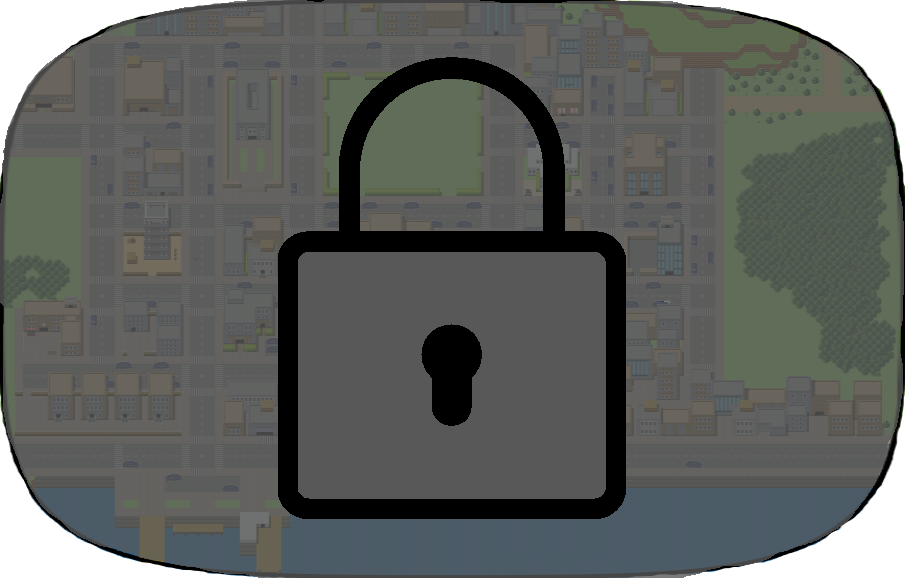
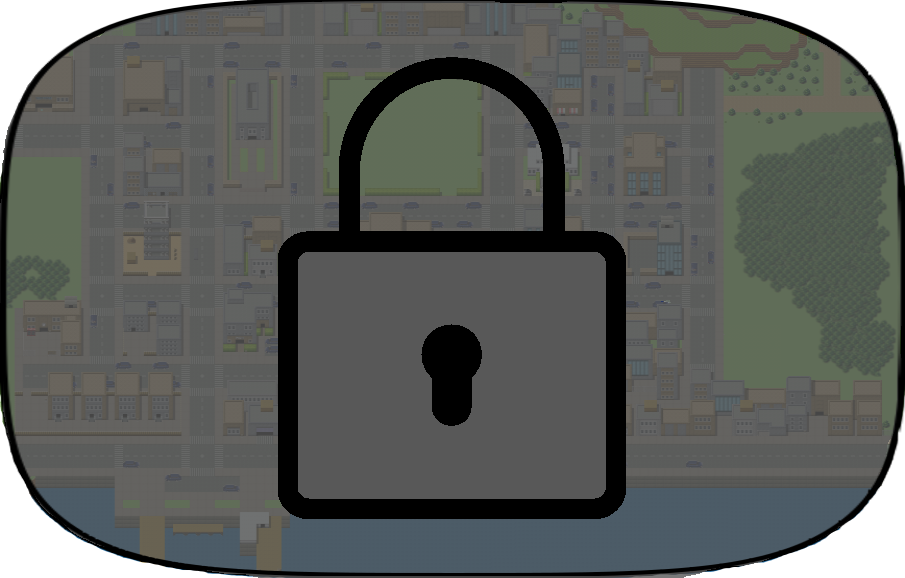
levelsunlocked working

diff --git a/build/app.js b/build/app.js
@@ -138,7 +138,7 @@ class GameController {
         this.energy = 1;
         this.money = 1;
         this.currentScreen = 'StartScreen';
-        this._levelsUnlocked = 1;
+        this._levelsUnlocked = 2;
         this._startscreen = new Startscreen(this._canvasElement);
         this._helpscreen = new Helpscreen(this._canvasElement);
         this._canvas = canvas;
@@ -569,21 +569,22 @@ class GameController {
         }
         ;
         if (this.co2 == 0 && this.currentScreen == `Level1`) {
-            this._levelsUnlocked = 1;
+            this._levelsUnlocked = 2;
+            this._startscreen._levelsUnlocked = 2;
             this.currentScreen = `StartScreen`;
             document.getElementById("wintext").innerHTML = `<span style='font-family:helvetica;float:left;position:relative;margin-left:34%;margin-top:-8%;color:black;font-size:96px'>Gewonnen!</span>`;
             this.co2 = 1;
         }
         ;
         if (this.co2 == 0 && this.currentScreen == `Level2`) {
-            this._levelsUnlocked = 2;
+            this._levelsUnlocked = 3;
+            this._startscreen._levelsUnlocked = 3;
             this.currentScreen = `StartScreen`;
             document.getElementById("wintext").innerHTML = `<span style='font-family:helvetica;float:left;position:relative;margin-left:34%;margin-top:-8%;color:black;font-size:96px'>Gewonnen!</span>`;
             this.co2 = 1;
         }
         ;
         if (this.co2 == 0 && this.currentScreen == `Level3`) {
-            this._levelsUnlocked = 3;
             this.currentScreen = `StartScreen`;
             document.getElementById("wintext").innerHTML = `<span style='font-family:helvetica;float:left;position:relative;margin-left:34%;margin-top:-8%;color:black;font-size:96px'>Gewonnen!</span>`;
             this.co2 = 1;
@@ -762,15 +763,27 @@ class LevelHelper {
 ;
 class Startscreen {
     constructor(canvas) {
-        this.levelsUnlocked = 1;
+        this._levelsUnlocked = 2;
         this.draw = () => {
             this._canvas.writeImageToCanvas(this._backgroundstart, 0, 0, this._canvas.getWidth(), this._canvas.getHeight());
             this._canvas.writeTextToCanvas("Level 1", this._canvas.getWidth() / 6, this._canvas.getHeight() / 3.6, 40);
             this._canvas.writeImageToCanvas(this._level1background, this._canvas.getWidth() / 40, this._canvas.getHeight() / 3.5, this._level1background.width / 2, this._level1background.height / 2);
             this._canvas.writeTextToCanvas("Level 2", this._canvas.getWidth() / 2, this._canvas.getHeight() / 3.6, 40);
-            this._canvas.writeImageToCanvas(this._level2background, this._canvas.getWidth() / 2.9, this._canvas.getHeight() / 3.5, this._level2background.width / 2, this._level2background.height / 2);
+            if (this._levelsUnlocked > 1) {
+                this._canvas.writeImageToCanvas(this._level2background, this._canvas.getWidth() / 2.9, this._canvas.getHeight() / 3.5, this._level2background.width / 2, this._level2background.height / 2);
+            }
+            else {
+                this._canvas.writeImageToCanvas(this._level2locked, this._canvas.getWidth() / 2.9, this._canvas.getHeight() / 3.5, this._level2background.width / 2, this._level2background.height / 2);
+            }
+            ;
             this._canvas.writeTextToCanvas("Level 3", this._canvas.getWidth() / 1.23, this._canvas.getHeight() / 3.6, 40);
-            this._canvas.writeImageToCanvas(this._level3background, this._canvas.getWidth() / 1.5, this._canvas.getHeight() / 3.5, this._level3background.width / 2, this._level3background.height / 2);
+            if (this._levelsUnlocked > 2) {
+                this._canvas.writeImageToCanvas(this._level3background, this._canvas.getWidth() / 1.5, this._canvas.getHeight() / 3.5, this._level3background.width / 2, this._level3background.height / 2);
+            }
+            else {
+                this._canvas.writeImageToCanvas(this._level3locked, this._canvas.getWidth() / 1.5, this._canvas.getHeight() / 3.5, this._level3background.width / 2, this._level3background.height / 2);
+            }
+            ;
             this._canvas.writeTextToCanvas("Help", this._canvas.getWidth() / 1.03, this._canvas.getHeight() / 7);
             this._canvas.writeImageToCanvas(this._canvas._helpButton, this._canvas.getWidth() / 1.05, this._canvas.getHeight() / 50, this._canvas._helpButton.width / 5, this._canvas._helpButton.height / 5);
         };
@@ -783,11 +796,16 @@ class Startscreen {
         this._level2background.src = "./assets/images/level2bubble.png";
         this._level3background = new Image();
         this._level3background.src = "./assets/images/level3bubble.png";
+        this._level2locked = new Image();
+        this._level2locked.src = "./assets/images/level2locked.png";
+        this._level3locked = new Image();
+        this._level3locked.src = "./assets/images/level3locked.png";
         this._levelIntro1 = new Image();
         this._levelIntro1.src = "./assets/images/level1_uitleg.png";
         this._levelIntro2 = new Image();
         this._levelIntro2.src = "./assets/images/level2_uitleg.png";
     }
+    ;
 }
 ;
 //# sourceMappingURL=app.js.map

diff --git a/src/Startscreen.ts b/src/Startscreen.ts
@@ -4,12 +4,14 @@ class Startscreen {
     private _game: Game;
     private _canvas: Canvas;
     private _levelHelper: LevelHelper;
-    private levelsUnlocked: number = 1;
+    public _levelsUnlocked: number = 2;
     private userName: string;
     public _backgroundstart: HTMLImageElement;
     public _level1background: HTMLImageElement;
     public _level2background: HTMLImageElement;
     public _level3background: HTMLImageElement;
+    public _level2locked: HTMLImageElement;
+    public _level3locked: HTMLImageElement;
     public xPosLevel1Background: number;
     public yPosLevel1Background: number;
     public xPosLevel2Background: number;
@@ -29,12 +31,16 @@ class Startscreen {
         this._level2background.src = "./assets/images/level2bubble.png";
         this._level3background = new Image();
         this._level3background.src = "./assets/images/level3bubble.png";
+        this._level2locked = new Image();
+        this._level2locked.src = "./assets/images/level2locked.png";
+        this._level3locked = new Image();
+        this._level3locked.src = "./assets/images/level3locked.png";
         this._levelIntro1 = new Image();
         this._levelIntro1.src = "./assets/images/level1_uitleg.png";
         this._levelIntro2 = new Image();
         this._levelIntro2.src = "./assets/images/level2_uitleg.png";
         //console.log(canvas);
-    }
+    };
 
     public draw = () => {
         // this._canvas.writeImageToCanvas(this._level1background, 0, 0, this._canvas.getWidth(), this._canvas.getHeight());
@@ -42,16 +48,24 @@ class Startscreen {
         this._canvas.writeImageToCanvas(this._backgroundstart, 0, 0, this._canvas.getWidth(), this._canvas.getHeight());
 
         //level1
-        this._canvas.writeTextToCanvas("Level 1", this._canvas.getWidth() / 6, this._canvas.getHeight() / 3.6, 40)
+        this._canvas.writeTextToCanvas("Level 1", this._canvas.getWidth() / 6, this._canvas.getHeight() / 3.6, 40);
         this._canvas.writeImageToCanvas(this._level1background, this._canvas.getWidth() / 40, this._canvas.getHeight() / 3.5, this._level1background.width / 2, this._level1background.height / 2);
 
         //level2
-        this._canvas.writeTextToCanvas("Level 2", this._canvas.getWidth() / 2, this._canvas.getHeight() / 3.6, 40)
-        this._canvas.writeImageToCanvas(this._level2background, this._canvas.getWidth() / 2.9, this._canvas.getHeight() / 3.5, this._level2background.width / 2, this._level2background.height / 2);
+        this._canvas.writeTextToCanvas("Level 2", this._canvas.getWidth() / 2, this._canvas.getHeight() / 3.6, 40);
+        if (this._levelsUnlocked > 1){
+            this._canvas.writeImageToCanvas(this._level2background, this._canvas.getWidth() / 2.9, this._canvas.getHeight() / 3.5, this._level2background.width / 2, this._level2background.height / 2);
+        } else {
+            this._canvas.writeImageToCanvas(this._level2locked, this._canvas.getWidth() / 2.9, this._canvas.getHeight() / 3.5, this._level2background.width / 2, this._level2background.height / 2);
+        };
 
         //level3
-        this._canvas.writeTextToCanvas("Level 3", this._canvas.getWidth() / 1.23, this._canvas.getHeight() / 3.6, 40)
-        this._canvas.writeImageToCanvas(this._level3background, this._canvas.getWidth() / 1.5, this._canvas.getHeight() / 3.5, this._level3background.width / 2, this._level3background.height / 2);
+        this._canvas.writeTextToCanvas("Level 3", this._canvas.getWidth() / 1.23, this._canvas.getHeight() / 3.6, 40);
+        if(this._levelsUnlocked > 2){
+            this._canvas.writeImageToCanvas(this._level3background, this._canvas.getWidth() / 1.5, this._canvas.getHeight() / 3.5, this._level3background.width / 2, this._level3background.height / 2);
+        } else {
+            this._canvas.writeImageToCanvas(this._level3locked, this._canvas.getWidth() / 1.5, this._canvas.getHeight() / 3.5, this._level3background.width / 2, this._level3background.height / 2);
+        };
 
         //helpbutton
         this._canvas.writeTextToCanvas("Help", this._canvas.getWidth() / 1.03, this._canvas.getHeight() / 7)

diff --git a/src/GameController.ts b/src/GameController.ts
@@ -15,7 +15,7 @@ class GameController {
     public _stuwdam: HTMLImageElement;
     public _windmolens: HTMLImageElement;
     public _zonnepaneel: HTMLImageElement;
-    public _levelsUnlocked: number = 1;
+    public _levelsUnlocked: number = 2;
 
     public constructor(canvas: Canvas) {
         this._startscreen = new Startscreen(this._canvasElement);
@@ -493,7 +493,8 @@ class GameController {
 
         //winning level 1
         if (this.co2 == 0 && this.currentScreen == `Level1`) {
-            this._levelsUnlocked = 1;
+            this._levelsUnlocked = 2;
+            this._startscreen._levelsUnlocked = 2;
             this.currentScreen = `StartScreen`;
             document.getElementById("wintext").innerHTML = `<span style='font-family:helvetica;float:left;position:relative;margin-left:34%;margin-top:-8%;color:black;font-size:96px'>Gewonnen!</span>`;
             this.co2 = 1;
@@ -501,7 +502,8 @@ class GameController {
 
         //winning level 2
         if (this.co2 == 0 && this.currentScreen == `Level2`) {
-            this._levelsUnlocked = 2;
+            this._levelsUnlocked = 3;
+            this._startscreen._levelsUnlocked = 3;
             this.currentScreen = `StartScreen`;
             document.getElementById("wintext").innerHTML = `<span style='font-family:helvetica;float:left;position:relative;margin-left:34%;margin-top:-8%;color:black;font-size:96px'>Gewonnen!</span>`;
             this.co2 = 1;
@@ -509,7 +511,6 @@ class GameController {
 
         //winning level 3
         if (this.co2 == 0 && this.currentScreen == `Level3`) {
-            this._levelsUnlocked = 3;
             this.currentScreen = `StartScreen`;
             document.getElementById("wintext").innerHTML = `<span style='font-family:helvetica;float:left;position:relative;margin-left:34%;margin-top:-8%;color:black;font-size:96px'>Gewonnen!</span>`;
             this.co2 = 1;
